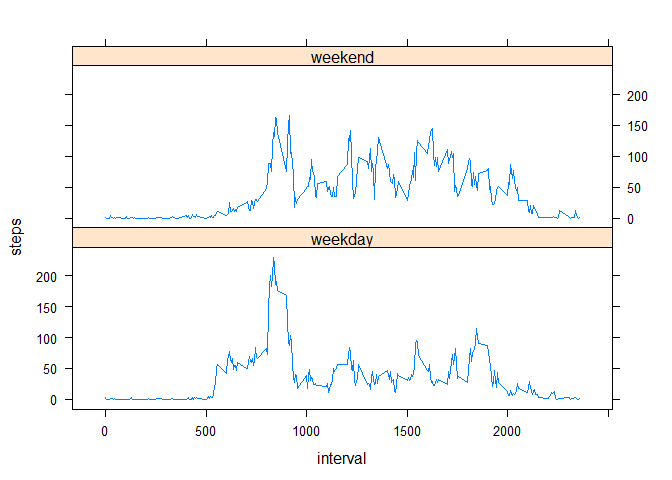
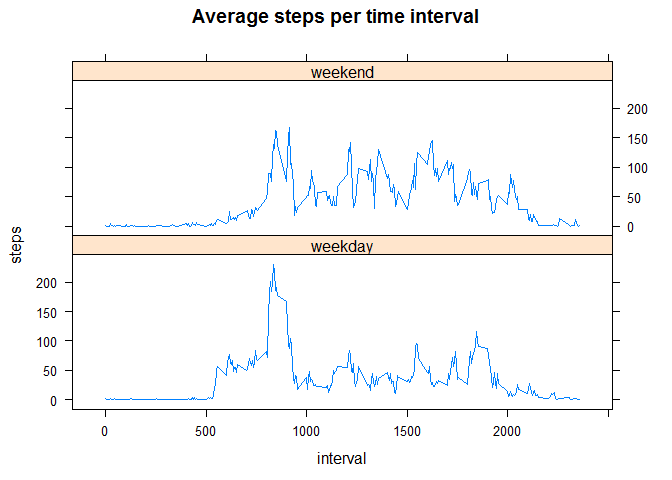
fussing with the small details

diff --git a/PA1_template.html b/PA1_template.html
@@ -102,9 +102,9 @@ intave[mint,]</code></pre>
 <pre><code>## 
 ## FALSE  TRUE 
 ## 15264  2304</code></pre>
-<p>We will replace the missing values with the mean for that 5-minute time interval, rounded to the nearest integer.</p>
+<p>We will replace each missing value with the mean for its 5-minute time interval, rounded to the nearest integer.</p>
 <pre class="r"><code># The function impute replaces NA steps values with the rounded mean
-#for the same time interval (using the intave table from above)
+# for the same time interval (using the intave table from above)
 
 impute &lt;- function (steps, interval) {
         if (!is.na(steps)) steps 
@@ -145,8 +145,9 @@ iactivity$wknd &lt;- as.factor(iactivity$wknd)
 #find the mean by interval and wknd factor
 iagg&lt;-aggregate(steps ~ interval + wknd, data = iactivity, mean)
 
-xyplot(steps~interval|wknd, data=iagg, type = &quot;l&quot;, layout = c(1,2))</code></pre>
[1 lines of base64/hex data omitted]
+xyplot(steps~interval|wknd, data=iagg, type = &quot;l&quot;, layout = c(1,2),
+       main = &quot;Average steps per time interval&quot;)</code></pre>
[1 lines of base64/hex data omitted]
 <p>The individual seems to get moving earlier and has a higher peak number of steps on weekdays.</p>
 </div>
 

diff --git a/PA1_template.md b/PA1_template.md
@@ -70,12 +70,12 @@ table(is.na(activity$steps))
 ## 15264  2304
 ```
 
-We will replace the missing values with the mean for that 5-minute time interval, rounded to the nearest integer.
+We will replace each missing value with the mean for its 5-minute time interval, rounded to the nearest integer.
 
 
 ```r
 # The function impute replaces NA steps values with the rounded mean
-#for the same time interval (using the intave table from above)
+# for the same time interval (using the intave table from above)
 
 impute <- function (steps, interval) {
         if (!is.na(steps)) steps 
@@ -131,7 +131,8 @@ iactivity$wknd <- as.factor(iactivity$wknd)
 #find the mean by interval and wknd factor
 iagg<-aggregate(steps ~ interval + wknd, data = iactivity, mean)
 
-xyplot(steps~interval|wknd, data=iagg, type = "l", layout = c(1,2))
+xyplot(steps~interval|wknd, data=iagg, type = "l", layout = c(1,2),
+       main = "Average steps per time interval")
 ```
 
 ![](PA1_template_files/figure-html/unnamed-chunk-9-1.png)
